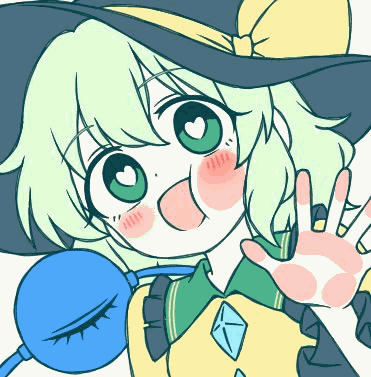
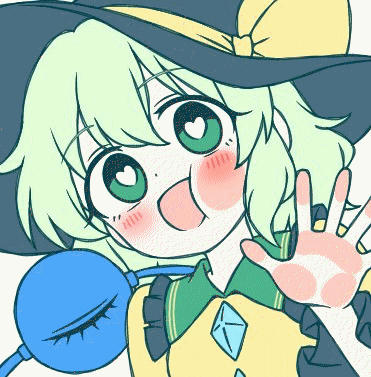
dither correction

diff --git a/src/main.rs b/src/main.rs
@@ -4,7 +4,7 @@ pub mod core;
 use core::octree::{add_colors, div_colors, mul_colors, Octree};
 use std::{cmp, env, fs::File, path::{self, Path, PathBuf}, time::{Duration, Instant}, u32, u8};
 use getargs::{Arg, Options};
-use image::{DynamicImage, GenericImage, GenericImageView, Pixel, Rgb, RgbImage, Rgba, RgbaImage};
+use image::{ColorType, DynamicImage, GenericImage, GenericImageView, ImageBuffer, Pixel, Rgb, RgbImage, Rgba, RgbaImage};
 
 fn bw_quant_basic_dithering(source: &DynamicImage, destination: &mut RgbaImage) {
     let mut color_error: i16 = 0;
@@ -204,9 +204,9 @@ fn dither_apply_error(err_color: &Rgb<i16>, color: &Rgb<u8>) -> Rgb<u8> {
     let [err_r, err_g, err_b] = err_color.0;
     let [src_r, src_g, src_b] = color.0.map(|c| i16::from(c));
 
-    let r = src_r + err_r;
-    let g = src_g + err_g;
-    let b = src_b + err_b;
+    let r = src_r + (err_r / 4);
+    let g = src_g + (err_g / 4);
+    let b = src_b + (err_b / 4);
 
     let dest_r = r.max(r).min(u8::MAX.into()) as u8;
     let dest_g = g.max(g).min(u8::MAX.into()) as u8;
@@ -217,6 +217,8 @@ fn dither_apply_error(err_color: &Rgb<i16>, color: &Rgb<u8>) -> Rgb<u8> {
     rgb
 }
 
+// expensive function to account for the octree not covering all colors!
+// dithering makes new colors out of nowhere due to errors + original color = new color
 fn nearest_color_from_palette(palette: &Vec<Rgb<u8>>, rgb: &Rgb<u8>) -> usize {
     let mut smallest_diff = u32::MAX;
     let mut best_index: usize = 0;
@@ -263,7 +265,7 @@ fn octree_full_color(octree: &Octree, palette: &Vec<Rgb<u8>>, source: &DynamicIm
         for x in 0..width {
             let rgba = source.get_pixel(x, y);
             let rgb = rgba.to_rgb();
-            let palette_index = octree.get_palette_index(rgb).expect("Octree on dither palette_index couldn't find a color!");
+            let palette_index = octree.get_palette_index(rgb, true).expect("Octree on dither palette_index couldn't find a color!");
             let palette_color = palette[palette_index];
 
             destination.put_pixel(x as u32, y as u32, Rgba([palette_color.0[0], palette_color.0[1], palette_color.0[2], rgba.0[3]]));
@@ -285,10 +287,13 @@ fn sierra_lite_full_color(octree: &Octree, palette: &Vec<Rgb<u8>>, source: &Dyna
             let dither_rgb = error_vec[error_index];
             let corrected_rgb = dither_apply_error(&dither_rgb, &rgb);
             // - get nearest color from palette
-            let palette_index = octree.get_palette_index(corrected_rgb).expect("Octree on dither palette_index couldn't find a color!");
+            let palette_index = match octree.get_palette_index(corrected_rgb, false) {
+                Some(index) => index,
+                None => nearest_color_from_palette(palette, &rgb)
+            };
+            let palette_color = palette[palette_index];
             // let palette_index = nearest_color_from_palette(palette, &corrected_rgb);
             // - diffuse error
-            let palette_color = palette[palette_index];
             diffuse_error(&mut error_vec, image_width, x as usize, y as usize, &corrected_rgb, &palette_color);
 
             destination.put_pixel(x as u32, y as u32, Rgba([palette_color.0[0], palette_color.0[1], palette_color.0[2], rgba.0[3]]));
@@ -364,8 +369,7 @@ fn main() {
     let absolute_dest_path = path::absolute(dest_path).unwrap().into_os_string().into_string().unwrap();
 
     let img = image::open(absolute_source_path).expect("Can't find the file specified.");
-    let new_img = RgbaImage::new(img.width(), img.height());
-    let mut new_img = DynamicImage::ImageRgba8(new_img);
+    let mut new_img = DynamicImage::new(img.width(), img.height(), img.color());
     let mut recursive_octree = Octree::new();
 
     let start = Instant::now();

diff --git a/src/core/octree.rs b/src/core/octree.rs
@@ -73,8 +73,8 @@ pub struct OctreeNode {
 
 type LevelVec = [Vec<Weak<RefCell<OctreeNode>>>; MAX_DEPTH as usize];
 pub struct Octree {
-    pub root: OctreeNode,
-    pub levels: LevelVec,
+    root: OctreeNode,
+    levels: LevelVec,
 }
 
 impl Octree {
@@ -82,9 +82,9 @@ impl Octree {
         Self {
             root: OctreeNode::new(),
             levels: std::array::from_fn(|_| {
-                let mut a = Vec::new();
-                a.reserve(10_000);
-                a
+                let mut v = Vec::new();
+                v.reserve(10_000);
+                v
             }),
         }
     }
@@ -142,8 +142,18 @@ impl Octree {
     pub fn add_color(&mut self, color: Rgb<u8>) {
         self.root.add_color(color, 0, &mut self.levels);
     }
-    pub fn get_palette_index(&self, color: Rgb<u8>) -> Option<usize> {
-        self.root.get_palette_index(color, 0)
+    /// Returns the palette index for the closest color in the octree to your given color.
+    /// 
+    /// # Arguments
+    /// * `color` - The color value to find the palette index of.
+    /// * `ignore_no_color` - If `true`, the function will 
+    /// skip colors that are not accounted for in the octree.
+    ///
+    /// # Returns
+    /// * `Some(index)` if a suitable match is found.
+    /// * `None` if no match is found.
+    pub fn get_palette_index(&self, color: Rgb<u8>, ignore_no_color: bool) -> Option<usize> {
+        self.root.get_palette_index(color, 0, ignore_no_color)
     }
     pub fn get_leaf_nodes(&self) -> Vec<Weak<RefCell<OctreeNode>>> {
         let leaves = self.root.get_leaf_nodes();
@@ -185,7 +195,7 @@ impl OctreeNode {
         let mut node = self.children[index].as_ref().unwrap().borrow_mut();
         node.add_color(color, level + 1, levels);
     }
-    pub fn get_palette_index(&self, color: Rgb<u8>, level: usize) -> Option<usize> {
+    pub fn get_palette_index(&self, color: Rgb<u8>, level: usize, ignore_no_color: bool) -> Option<usize> {
         if self.is_leaf() {
             return Some(self.palette_index as usize);
         } else {
@@ -193,13 +203,15 @@ impl OctreeNode {
             match &self.children[index] {
                 Some(cell) => {
                     let c = cell.borrow();
-                    return c.get_palette_index(color, level + 1);
+                    return c.get_palette_index(color, level + 1, ignore_no_color);
                 },
                 None => {
-                    for node in self.children.iter() {
-                        if let Some(node) = node {
-                            let c = node.borrow();
-                            return c.get_palette_index(color, level + 1);
+                    if ignore_no_color {
+                        for node in self.children.iter() {
+                            if let Some(node) = node {
+                                let c = node.borrow();
+                                return c.get_palette_index(color, level + 1, ignore_no_color);
+                            }
                         }
                     }
 
